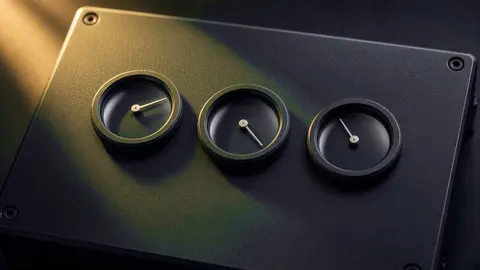
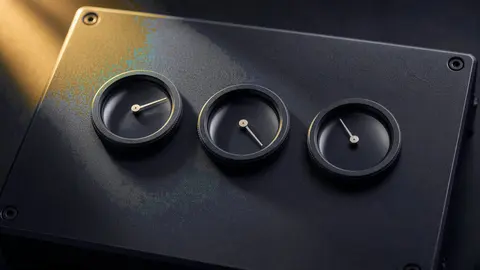
Visual audit fixes for the Midnight Signal theme
- Search page and dialog text was navy on navy; use the surface heading color.
- Amber now means approval only: neutral hover-card labels, icon tiles, chips,
  step markers and badges; home figures in cyan and never wrapped.
- Contact fields get a visible border on light sections.
- Service card icon no longer covers the art; faint step numbers raised.
- Light-surface button hover stays navy; drop the brown canvas glow.
- Hide the browser's blue clear button in search fields.
- Remove remaining green and olive tints from two photos.

Claude-Session: https://claude.ai/code/session_01HaviUaj5fPJgmAg8BZKgUa

diff --git a/app/globals.css b/app/globals.css
@@ -86,7 +86,7 @@
   --error: var(--error-light);
   --btn-fill: var(--obsidian);
   --btn-text: var(--ivory);
-  --btn-hover: var(--gold-ink);
+  --btn-hover: #1e2348;
   --btn-hover-text: var(--ivory);
 }
 
@@ -342,9 +342,9 @@ html[data-modality="pointer"] :focus-visible {
   .field {
     width: 100%;
     min-height: 2.75rem;
-    border: 1px solid var(--line-light);
+    border: 1px solid rgb(14 16 36 / 0.4);
     border-radius: 6px;
-    background: var(--ivory);
+    background: #ffffff;
     padding: 0.7rem 0.875rem;
     color: var(--ink);
     font-size: 1rem;
@@ -419,7 +419,7 @@ html[data-modality="pointer"] :focus-visible {
     background-color: var(--well);
     background-image:
       radial-gradient(120% 90% at 50% -10%, rgb(56 70 160 / 0.42), transparent 60%),
-      radial-gradient(70% 60% at 85% 110%, rgb(255 181 71 / 0.06), transparent 70%);
+      radial-gradient(70% 60% at 85% 110%, rgb(56 214 196 / 0.04), transparent 70%);
   }
 
   .flow-q {
@@ -676,7 +676,7 @@ html[data-modality="pointer"] :focus-visible {
       align-items: center;
       justify-content: space-between;
       gap: 8px;
-      color: var(--gold);
+      color: var(--ivory-64);
       font-size: 11px;
       font-weight: 600;
       letter-spacing: 0.08em;
@@ -685,6 +685,10 @@ html[data-modality="pointer"] :focus-visible {
 
     .flow-item[data-kind="ai"] > .flow-node > .flow-tip .flow-tip-kicker {
       color: var(--cyan);
+    }
+
+    .flow-item[data-kind="human"] > .flow-node > .flow-tip .flow-tip-kicker {
+      color: var(--gold);
     }
 
     .flow-tip-app {
@@ -1396,9 +1400,9 @@ input[type="range"]::-moz-range-thumb {
     gap: 6px;
     margin-left: auto;
     padding: 2px 10px;
-    border: 1px solid rgb(255 181 71 / 0.45);
+    border: 1px solid rgb(244 245 250 / 0.22);
     border-radius: 9999px;
-    color: var(--gold);
+    color: var(--ivory-64);
     font-size: 12px;
     white-space: nowrap;
   }
@@ -1652,7 +1656,7 @@ input[type="range"]::-moz-range-thumb {
     box-shadow:
       inset 0 1px 0 rgb(244 245 250 / 0.1),
       0 10px 20px -12px rgb(0 0 0 / 0.8);
-    color: var(--gold);
+    color: var(--ivory);
   }
 
   .g-chip {
@@ -1709,7 +1713,7 @@ input[type="range"]::-moz-range-thumb {
   }
 
   .scope-num {
-    color: rgb(244 245 250 / 0.18);
+    color: rgb(244 245 250 / 0.35);
     font-family: var(--font-mono);
     font-size: 44px;
     font-weight: 600;
@@ -1781,7 +1785,7 @@ input[type="range"]::-moz-range-thumb {
     bottom: -28px;
     left: 31px;
     width: 2px;
-    background: linear-gradient(180deg, rgb(255 181 71 / 0.6), rgb(244 245 250 / 0.12));
+    background: linear-gradient(180deg, rgb(56 214 196 / 0.5), rgb(244 245 250 / 0.12));
   }
 
   .track-dot {
@@ -1807,7 +1811,7 @@ input[type="range"]::-moz-range-thumb {
     height: 22px;
     place-items: center;
     border-radius: 9999px;
-    background: var(--gold);
+    background: var(--ivory);
     color: var(--obsidian);
     font-size: 12px;
     font-weight: 700;
@@ -1846,7 +1850,7 @@ input[type="range"]::-moz-range-thumb {
       left: calc(50% + 40px);
       width: auto;
       height: 2px;
-      background: linear-gradient(90deg, rgb(255 181 71 / 0.6), rgb(244 245 250 / 0.12));
+      background: linear-gradient(90deg, rgb(56 214 196 / 0.5), rgb(244 245 250 / 0.12));
     }
 
     .track-title {
@@ -2031,7 +2035,7 @@ input[type="range"]::-moz-range-thumb {
     z-index: 1;
     padding: 3px 10px;
     border-radius: 9999px;
-    background: var(--gold);
+    background: var(--ivory);
     color: var(--obsidian);
     font-size: 12px;
     font-weight: 600;
@@ -2075,7 +2079,8 @@ input[type="range"]::-moz-range-thumb {
     align-items: baseline;
     gap: 8px;
     margin: 0;
-    color: var(--gold);
+    color: var(--cyan);
+    white-space: nowrap;
     font-size: clamp(2.25rem, 1.6rem + 2vw, 3.5rem);
     font-variation-settings: "wdth" 115, "wght" 640;
     font-weight: 640;
@@ -2405,4 +2410,10 @@ input[type="range"]::-moz-range-thumb {
     border-radius: 14px 14px 4px 14px;
     background: linear-gradient(180deg, #2e3570, var(--card-hover));
   }
+}
+
+/* Hide the browser's own clear button in search fields; the dialog has its own. */
+input[type="search"]::-webkit-search-cancel-button {
+  -webkit-appearance: none;
+  appearance: none;
 }

diff --git a/components/nav/SearchDialog.tsx b/components/nav/SearchDialog.tsx
@@ -58,8 +58,8 @@ export function SearchDialog({
       }}
     >
       <div className="wrap max-w-[56rem] py-6 md:py-10">
-        <form action="/search" role="search" className="flex items-center gap-3 border-b-2 border-forest">
-          <Search size={22} strokeWidth={1.5} aria-hidden className="shrink-0 text-forest" />
+        <form action="/search" role="search" className="flex items-center gap-3 border-b-2 border-heading">
+          <Search size={22} strokeWidth={1.5} aria-hidden className="shrink-0 text-heading" />
           <label htmlFor="site-search" className="sr-only">
             Search the site
           </label>
@@ -81,7 +81,7 @@ export function SearchDialog({
           />
           <button
             type="button"
-            className="flex h-11 w-11 shrink-0 items-center justify-center text-forest"
+            className="flex h-11 w-11 shrink-0 items-center justify-center text-heading"
             aria-label="Close search"
             onClick={close}
           >
@@ -105,7 +105,7 @@ export function SearchDialog({
               <li key={entry.url} className="border-b border-rule">
                 <Link href={entry.url} className="group block py-3.5" onClick={follow}>
                   <span className="text-[15px] text-slate">{entry.type}</span>
-                  <span className="card-title mt-0.5 block font-semibold text-forest">{entry.title}</span>
+                  <span className="card-title mt-0.5 block font-semibold text-heading">{entry.title}</span>
                 </Link>
               </li>
             ))}

diff --git a/components/content/SearchResults.tsx b/components/content/SearchResults.tsx
@@ -18,7 +18,7 @@ function SearchForm({ initial }: { initial: string }) {
   return (
     <form action="/search" role="search" className="flex flex-wrap items-end gap-3">
       <div className="min-w-0 flex-1 basis-64">
-        <label htmlFor="q" className="mb-2 block font-semibold text-forest">
+        <label htmlFor="q" className="mb-2 block font-semibold text-heading">
           Search terms
         </label>
         <input key={initial} id="q" name="q" type="search" defaultValue={initial} className="field" />
@@ -51,7 +51,7 @@ function FromQuery() {
   return (
     <>
       <SearchForm initial={query} />
-      <p role="status" className="mt-8 font-semibold text-forest">
+      <p role="status" className="mt-8 font-semibold text-heading">
         {failed
           ? "Search could not be loaded. Use the menu, or reload the page to try again."
           : query === ""
@@ -87,7 +87,7 @@ function FromQuery() {
               {entries.map((entry) => (
                 <li key={entry.url} className="border-b border-rule">
                   <Link href={entry.url} className="group block py-4">
-                    <span className="card-title block font-semibold text-forest">{entry.title}</span>
+                    <span className="card-title block font-semibold text-heading">{entry.title}</span>
                     <span className="mt-1 block text-muted">{entry.summary}</span>
                   </Link>
                 </li>

diff --git a/components/nav/InPageIndex.tsx b/components/nav/InPageIndex.tsx
@@ -53,8 +53,8 @@ export function InPageIndex({ items }: { items: IndexItem[] }) {
               aria-current={current ? "location" : undefined}
               className={`-ml-px flex min-h-11 items-center border-l-2 py-1.5 pl-4 text-[14px] leading-snug ${
                 current
-                  ? "border-forest font-semibold text-forest"
-                  : "border-transparent text-slate hover:text-forest"
+                  ? "border-heading font-semibold text-heading"
+                  : "border-transparent text-slate hover:text-heading"
               }`}
               onClick={() => moveFocus(item.id)}
             >
@@ -69,11 +69,11 @@ export function InPageIndex({ items }: { items: IndexItem[] }) {
   return (
     <nav aria-label="On this page" data-print="hide">
       <div className="sticky top-[calc(var(--header-h)+2.5rem)] hidden lg:block">
-        <p className="mb-3 text-[14px] font-bold text-forest">On this page</p>
+        <p className="mb-3 text-[14px] font-bold text-heading">On this page</p>
         {list}
       </div>
       <details className="border-y border-rule lg:hidden">
-        <summary className="flex min-h-12 items-center justify-between font-semibold text-forest">
+        <summary className="flex min-h-12 items-center justify-between font-semibold text-heading">
           On this page
           <span aria-hidden>+</span>
         </summary>

diff --git a/app/page.tsx b/app/page.tsx
@@ -65,7 +65,7 @@ export default function HomePage() {
               How it works
             </Link>
           </div>
-          <p className="small mt-12 font-semibold tracking-[0.08em] text-gold uppercase">Our goals for you</p>
+          <p className="small mt-12 font-semibold tracking-[0.08em] text-cyan uppercase">Our goals for you</p>
           <dl className="stats mt-3">
             {STATS.map((stat) => (
               <div key={stat.label} className="stat">
@@ -151,7 +151,7 @@ export default function HomePage() {
         <section data-surface="dark" aria-labelledby="client" className="border-t border-line bg-forest">
           <div className="wrap grid grid-cols-[minmax(0,1fr)] items-center gap-10 py-14 lg:grid-cols-12 lg:py-20">
             <figure className="lg:col-span-5">
-              <p id="client" className="small font-semibold tracking-[0.08em] text-gold uppercase">
+              <p id="client" className="small font-semibold tracking-[0.08em] text-muted uppercase">
                 Client story
               </p>
               <blockquote className="h3 mt-4 font-normal">“{QUOTE.quote}”</blockquote>

diff --git a/components/forms/InquiryForm.tsx b/components/forms/InquiryForm.tsx
@@ -137,7 +137,7 @@ function InquiryFields({
 
   if (status === "success") {
     return (
-      <div className="border-t-2 border-forest pt-7">
+      <div className="border-t-2 border-heading pt-7">
         <h2 ref={thanksRef} tabIndex={-1} className="h2 outline-none">
           Thank you{receivedName ? `, ${receivedName}` : ""}.
         </h2>
@@ -264,7 +264,7 @@ function Field({
 }) {
   return (
     <div>
-      <label htmlFor={id} className="mb-2 block text-[15px] font-semibold text-forest">
+      <label htmlFor={id} className="mb-2 block text-[15px] font-semibold text-heading">
         {label}
         <span className="font-normal text-slate"> (required)</span>
       </label>

diff --git a/components/content/ShareLinks.tsx b/components/content/ShareLinks.tsx
@@ -18,7 +18,7 @@ export function ShareLinks({ url }: { url: string }) {
   const link = "text-link inline-flex min-h-11 items-center text-[15px]";
   return (
     <div data-print="hide" className="mt-14 flex flex-wrap items-center gap-x-7 gap-y-1 border-t border-rule pt-5">
-      <p className="font-semibold text-forest">Share</p>
+      <p className="font-semibold text-heading">Share</p>
       <button type="button" className={link} onClick={copy}>
         <span aria-live="polite">
           {state === "copied" ? "Link copied" : state === "failed" ? "Copy failed" : "Copy link"}

diff --git a/components/layout/LegalFrame.tsx b/components/layout/LegalFrame.tsx
@@ -22,7 +22,7 @@ export function LegalFrame({
         <Breadcrumbs items={[{ name: title, path }]} className="mb-6" />
         <h1 className="h1">{title}</h1>
         <p className="lead mt-5 text-muted">{lede}</p>
-        <p className="mt-8 border-l-2 border-forest bg-ivory px-6 py-4 font-medium">
+        <p className="mt-8 border-l-2 border-heading bg-ivory px-6 py-4 font-medium">
           Placeholder. Counsel-approved text will replace this page before publication. Nothing on this page is in
           effect.
         </p>

diff --git a/components/graphics/ServiceCards.tsx b/components/graphics/ServiceCards.tsx
@@ -25,7 +25,7 @@ export function ServiceCards() {
                 {index === 0 ? <span className="photo-card-tag">Main service</span> : null}
               </span>
               <span className="photo-card-body">
-                <span className="g-icon -mt-12">
+                <span className="g-icon relative -mt-6">
                   <Icon aria-hidden size={22} strokeWidth={1.5} />
                 </span>
                 <span className="card-title h3 mt-2 block">{service.name}</span>

diff --git a/components/graphics/Graphics.tsx b/components/graphics/Graphics.tsx
@@ -94,7 +94,7 @@ export function ScopeSteps() {
               <span className="g-icon">
                 <Icon aria-hidden size={22} strokeWidth={1.5} />
               </span>
-              <span className="scope-num">0{index + 1}</span>
+              <span className="scope-num" aria-hidden>0{index + 1}</span>
             </span>
             <h3 className="scope-name">{stage.name}</h3>
             <span className="g-chip">{stage.shape}</span>
